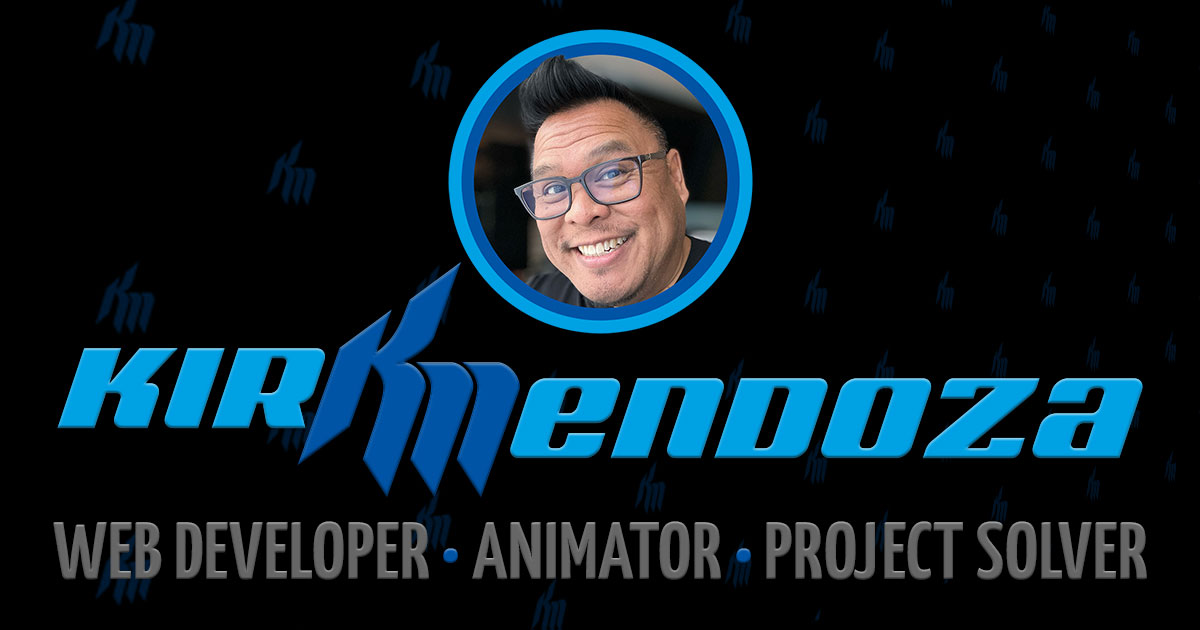
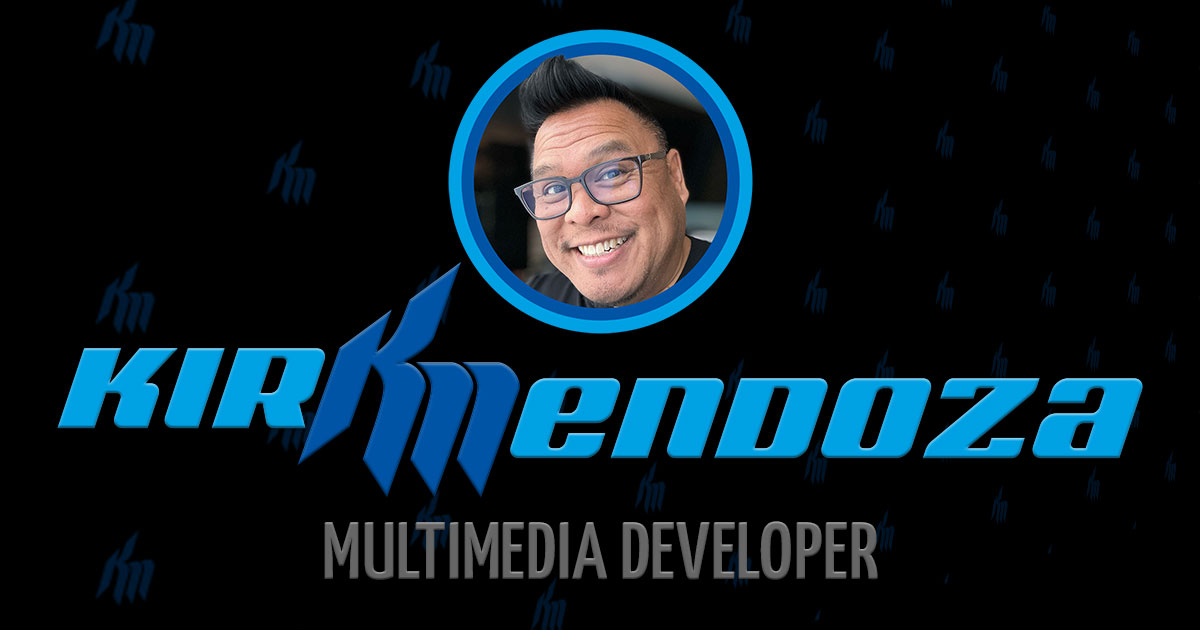
Updated Meta data copy and image.

Changed region(s): [[0.0308, 0.8143, 0.9558, 0.9349]]

diff --git a/client/index.html b/client/index.html
@@ -4,12 +4,12 @@
 		<meta charset="UTF-8" />
 		<link rel="icon" type="image/svg+xml" href="/km-favicon.svg" />
 		<meta name="viewport" content="width=device-width, initial-scale=1.0" />
-		<meta property="og:title" content="Kirk Mendoza - Web Developer • Animator • Project Solver - Let's work together!">
+		<meta property="og:title" content="Kirk Mendoza - Multimedia Developer - Let's work together!">
 		<meta property="og:description" content="Check out my portfolio site and samples. Let's work together!">
 		<meta property="og:image" content="./images/metadata.jpg">
 		<meta property="og:url" content="https://kirk-mendoza.com/">
 		<meta property="og:type" content="website"> <!-- or article, video.movie, etc. -->
-		<title>Kirk Mendoza - Web Developer • Animator • Project Solver</title>
+		<title>Kirk Mendoza - Multimedia Developer</title>
 		<link rel="preconnect" href="https://fonts.googleapis.com" />
 		<link rel="preconnect" href="https://fonts.gstatic.com" crossorigin />
 		<link href="https://fonts.googleapis.com/css2?family=Material+Symbols+Outlined:opsz,wght,FILL,GRAD@20..48,100..700,0..1,-50..200&family=Mulish:ital,wght@0,200..1000;1,200..1000&display=swap" rel="stylesheet" />
